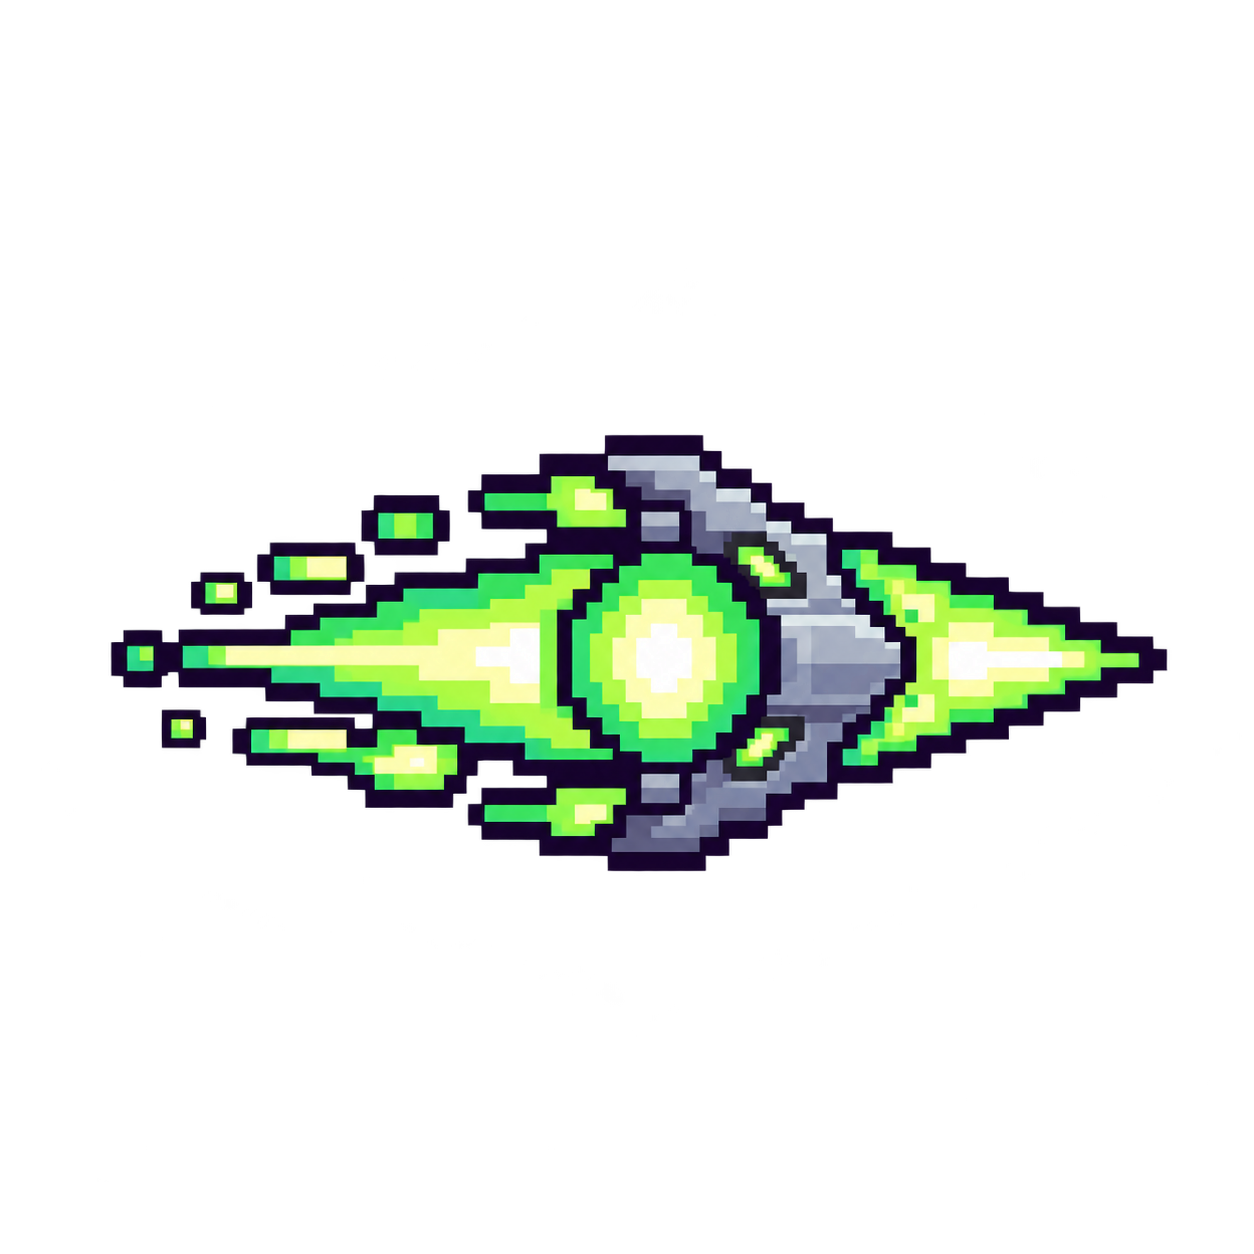
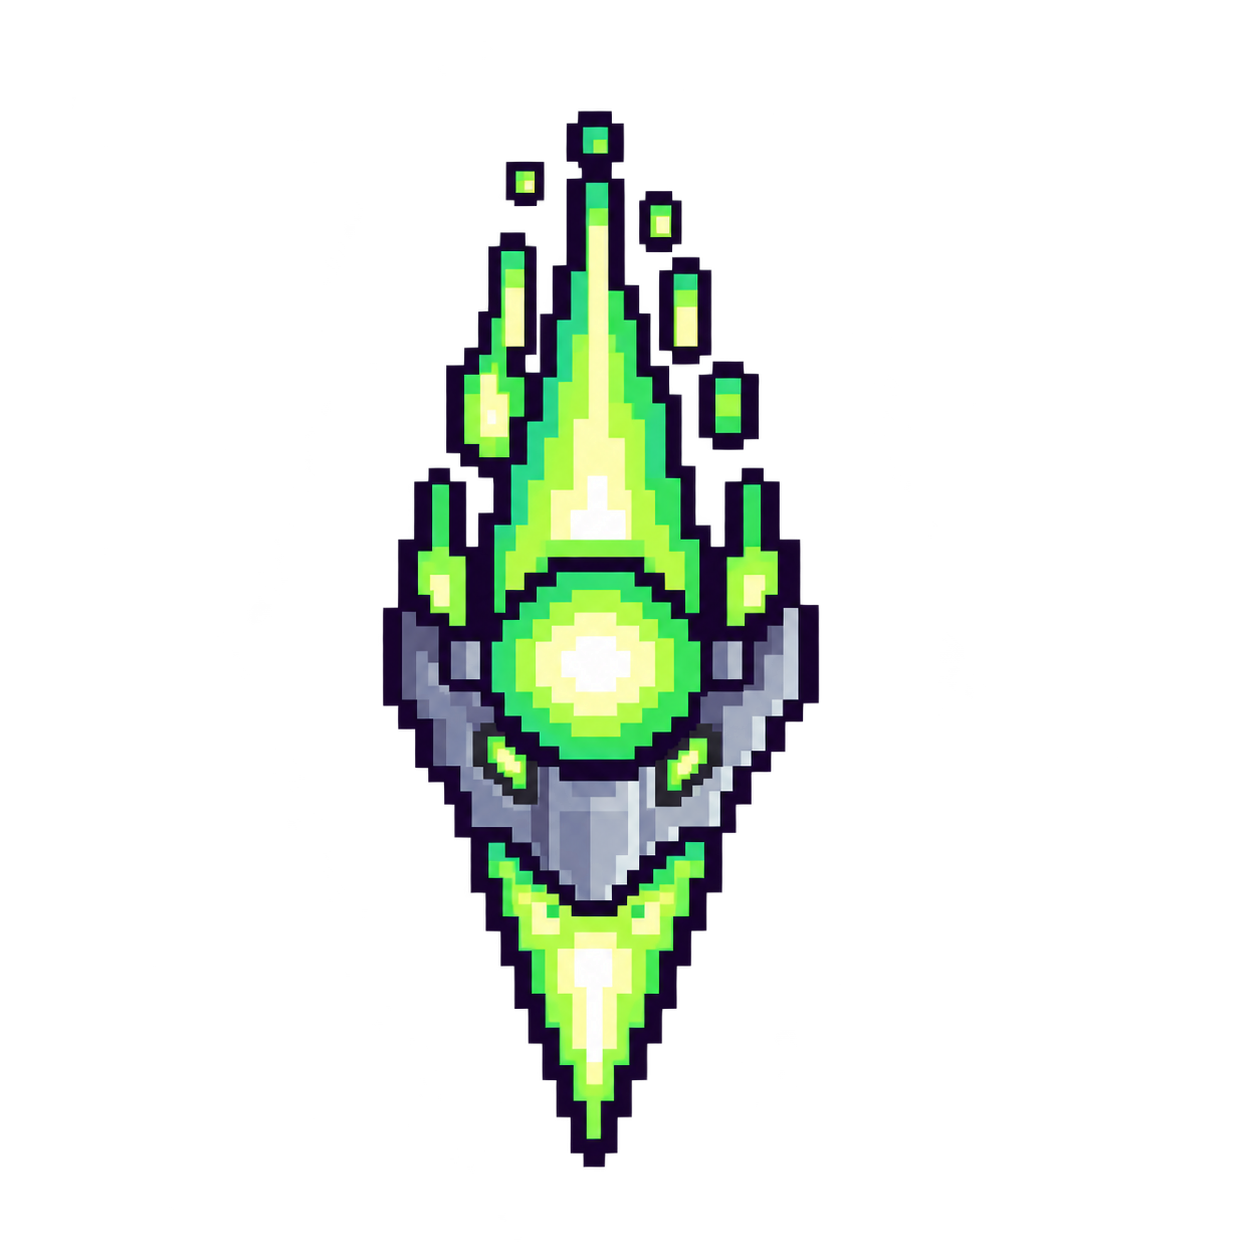
Reliability improvements for mobile play.

Changed region(s): [[0.0933, 0.0622, 0.933, 0.933]]

diff --git a/wwwroot/js/gameRenderer.js b/wwwroot/js/gameRenderer.js
@@ -221,6 +221,12 @@ window.alienFarmPixi = (function () {
     let farmer = null;
     let wobble = null;
 
+    // Latest player pointer position stays entirely
+    // on the JavaScript side until the next existing
+    // Pixi sync call.
+    let inputSurface = null;
+    let pendingPlayerTargetX = null;
+
     let textures = {};
 
     const wobbleShots = new Map();
@@ -246,6 +252,49 @@ window.alienFarmPixi = (function () {
     ];
 
     let enemyBulletContext = null;
+
+    function handlePlayerPointer(event) {
+        if (!config || !inputSurface) {
+            return;
+        }
+
+        // Ignore menus, pause screen, and actual buttons.
+        // We only want gameplay movement.
+        const target = event.target;
+
+        if (
+            target instanceof Element &&
+            target.closest(".overlay, button")
+        ) {
+            return;
+        }
+
+        const rect =
+            inputSurface.getBoundingClientRect();
+
+        if (rect.width <= 0) {
+            return;
+        }
+
+        // Convert browser/CSS coordinates back into
+        // the game's native 480px coordinate system.
+        const gameX =
+            (event.clientX - rect.left) *
+            (config.width / rect.width);
+
+        pendingPlayerTargetX =
+            Math.max(
+                24,
+                Math.min(
+                    config.width - 24,
+                    gameX
+                )
+            );
+    }
+
+    function resetPlayerInput() {
+        pendingPlayerTargetX = null;
+    }
 
     async function init(canvas, options) {
         config = options;
@@ -284,6 +333,24 @@ window.alienFarmPixi = (function () {
 
         createWobble();
         createFarmer();
+
+        // Listen on the stage rather than the canvas itself.
+        // This preserves movement even when the transparent
+        // mobile touch-control elements are above the canvas.
+        inputSurface =
+            canvas.parentElement || canvas;
+
+        inputSurface.addEventListener(
+            "pointerdown",
+            handlePlayerPointer,
+            { passive: true }
+        );
+
+        inputSurface.addEventListener(
+            "pointermove",
+            handlePlayerPointer,
+            { passive: true }
+        );
 
         ready = true;
     }
@@ -1404,6 +1471,16 @@ window.alienFarmPixi = (function () {
         syncPowerups(frame.powerups);
         syncExplosionsFlat(frame.explosions);
         syncBomberBlasts(frame.bomberBlasts);
+
+        // Return the newest pointer position as part of
+        // this existing C# -> JS crossing.
+        const playerTargetX =
+            pendingPlayerTargetX;
+
+        pendingPlayerTargetX = null;
+
+        // -1 means there has been no new pointer movement.
+        return playerTargetX ?? -1;
     }
 
     function clear() {
@@ -1492,7 +1569,12 @@ window.alienFarmPixi = (function () {
         }
     }
 
-    return { init, sync, clear };
+    return {
+        init,
+        sync,
+        clear,
+        resetPlayerInput
+    };
 })();
 
 
